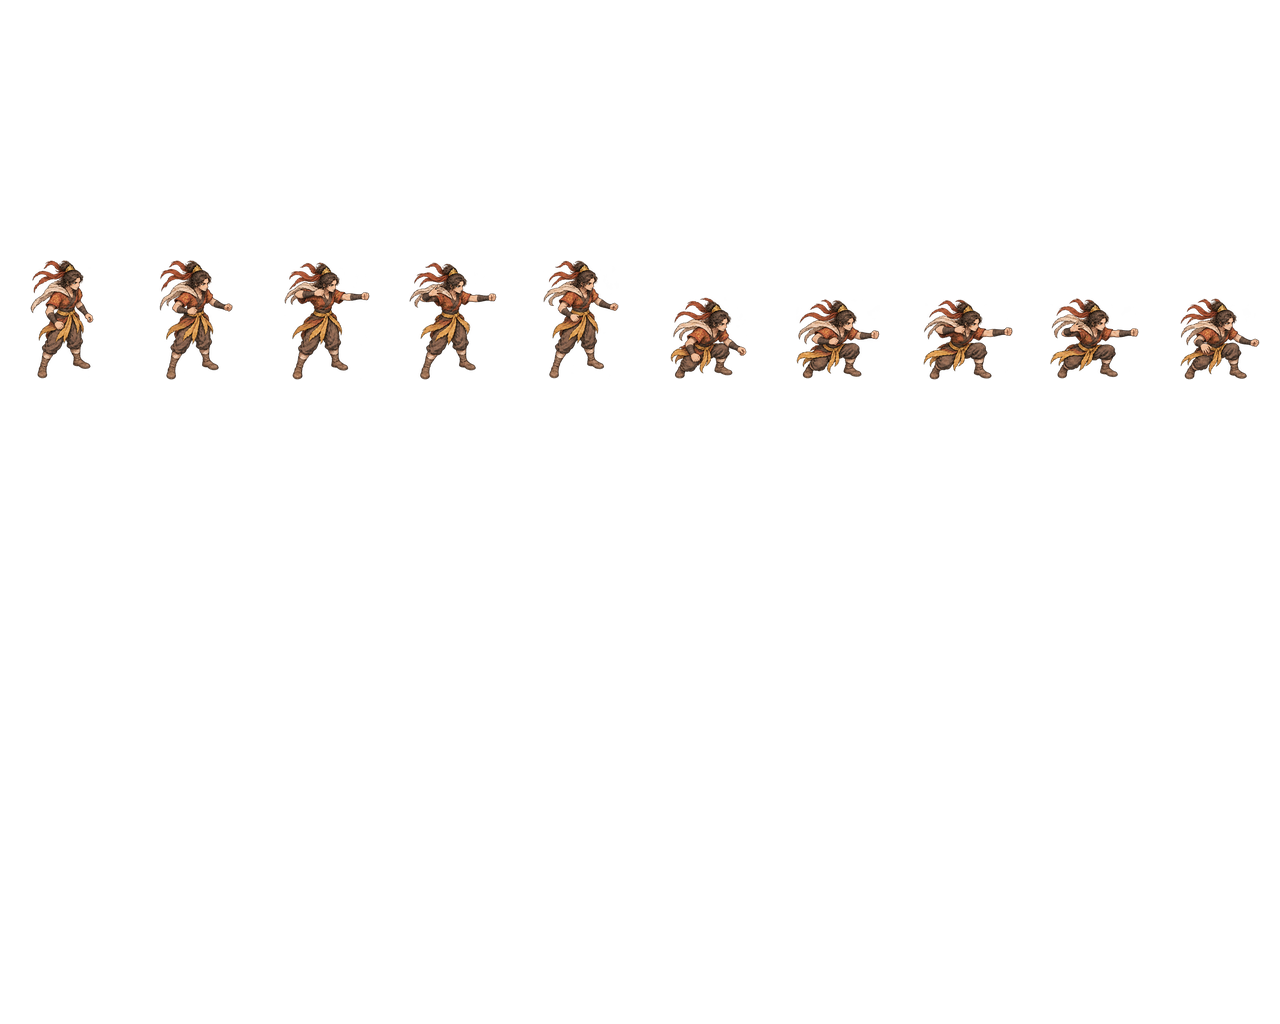
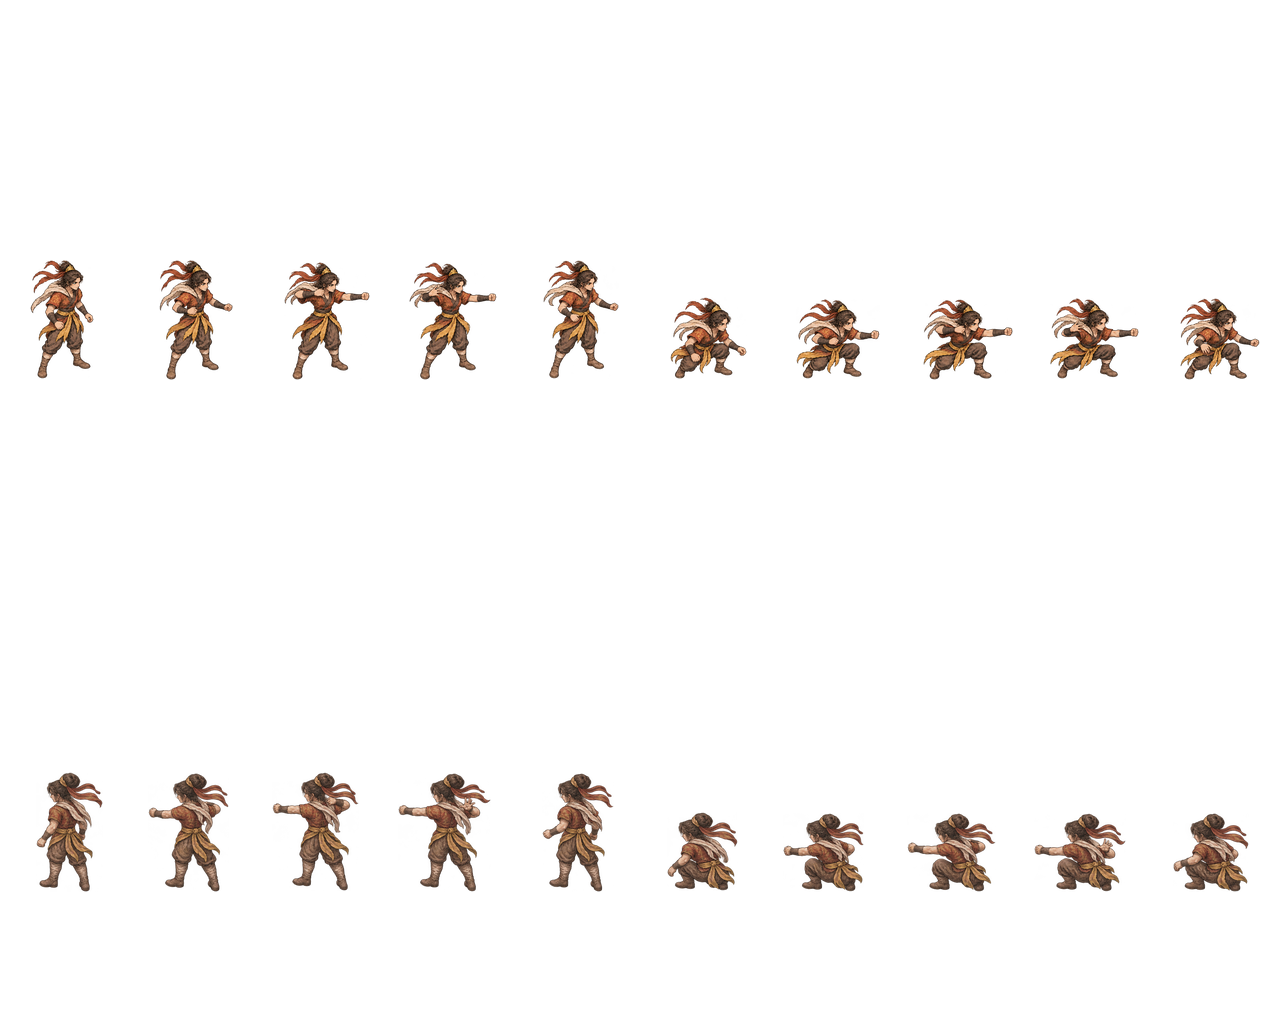
Paint and register both west-facing Fire bow releases

diff --git a/client-unity/UnityProject/Assets/Scripts/Presentation/SpriteActorPresenter.FireBow.cs b/client-unity/UnityProject/Assets/Scripts/Presentation/SpriteActorPresenter.FireBow.cs
@@ -3,7 +3,7 @@ using UnityEngine;
 
 namespace Roguehalla.Client
 {
-    /// <summary>Routes the completed Fire east-facing bow performance through normal player body rendering.</summary>
+    /// <summary>Routes restored Fire bow performances through normal player body rendering.</summary>
     public sealed partial class SpriteActorPresenter
     {
         static StormInkFireBowAuthoring FireBowBodySource(Sprite body)
